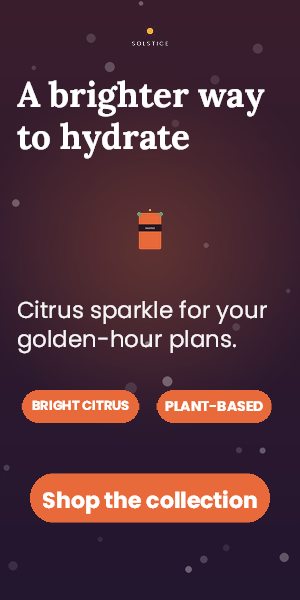
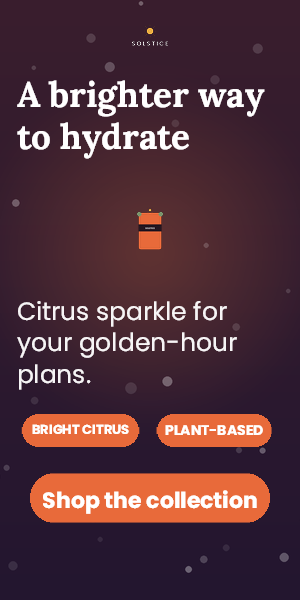
Size portrait copy bands from rendered text

Changed region(s): [[0.06, 0.48, 0.9, 0.75], [0.51, 0.63, 0.93, 0.75]]

diff --git a/engine/chameleon/planner.py b/engine/chameleon/planner.py
@@ -7,7 +7,7 @@ from math import cos, radians, sin
 from typing import Any
 
 from .model import DesignDNA, ElementFacts
-from .typography import fit_font_size
+from .typography import fit_font_size, measure_text
 
 
 def _clamp_rect(rect: tuple[float, float, float, float], canvas: dict[str, int]) -> tuple[float, float, float, float]:
@@ -533,10 +533,19 @@ def _layout(dna: DesignDNA, family: str, variant: int = 0) -> dict[str, Any]:
         copy_facts = sorted(subs + bodies, key=lambda f: (float(f.element.get("y", 0)), f.center[0]))
         if copy_facts:
             copy_start = ch * (0.49 if heroes else 0.31)
-            copy_band = min(ch * 0.18, max(ch * 0.08, ch * 0.14 * len(copy_facts))) / len(copy_facts)
-            for i, f in enumerate(copy_facts):
-                _apply_rect(dna, by_id, f.id, (mx, copy_start + i * copy_band, cw - 2 * mx, copy_band * 0.9), assigned)
-            badge_start = copy_start + len(copy_facts) * copy_band + ch * 0.02
+            copy_width = cw - 2 * mx
+            required = [
+                measure_text(f.element, copy_width, ch, fonts_dir="brand_kit/fonts").required_height * 1.3
+                for f in copy_facts
+            ]
+            total_copy_height = min(ch * 0.18, max(ch * 0.08, sum(required)))
+            total_required = max(1.0, sum(required))
+            cursor = copy_start
+            for f, needed_height in zip(copy_facts, required):
+                band_height = total_copy_height * needed_height / total_required
+                _apply_rect(dna, by_id, f.id, (mx, cursor, copy_width, band_height * 0.9), assigned)
+                cursor += band_height
+            badge_start = copy_start + total_copy_height + ch * 0.02
         else:
             badge_start = ch * (0.56 if heroes else 0.34)
         if badge_groups:

diff --git a/tests/test_engine.py b/tests/test_engine.py
@@ -140,6 +140,7 @@ class EngineContractTests(unittest.TestCase):
         hero = by_id["hero_product"]
         copy = by_id["supporting_copy"]
         self.assertLessEqual(float(hero["y"]) + float(hero["height"]), float(copy["y"]))
+        self.assertLessEqual(float(copy["height"]), 1920 * 0.09)
         self.assertLess(float(by_id["cta_background"]["y"]), 1920 * 0.84)
 
         badge = self._union_bounds([by_id["citrus_badge_background"], by_id["plant_badge_background"]])

diff --git a/docs/failure-taxonomy.md b/docs/failure-taxonomy.md
@@ -7,7 +7,7 @@ This is the current diagnostic snapshot from `evidence/benchmark/report.json`. T
 | Typography and hierarchy | Zero hierarchy regressions across all 64 stress cases and 45 mutations. The earlier 108 stress flags were inherited source ratios, not output regressions. | The scorer compares candidate hierarchy with the source. Action-word inference, proportion-preserving CTA groups, and short-landscape band spacing now keep primary actions above badge labels without clipping or new collisions. |
 | Text clipping and excessive shrinkage | No clipped text in the official outputs, stress cases, or mutations. The official Level 3 banner text sizes are: headline 15.09 px, subhead 8.45 px, and legal line 7.91 px. | Preserve every source string. Compact banner tests enforce headline, legal, badge, and CTA floors. Supporting copy is still small at 728×90 and remains a visual limitation. |
 | Banner reflow | The official 1600×400 and 728×90 tasks select a banner family. Their current renderer-backed outputs use distinct title, copy, action, and product areas. | Continue visual inspection; a legal banner can still be too dense. The advanced sample remains the weakest official composition. |
-| Vertical reflow and target underuse | The 1080×1080 → 1080×1350 warm-up uses a lower action band. The independent 1080×1920 sidecar now uses a shorter hero frame, earlier copy band, and earlier CTA floor; a regression test checks their ordering. | The render has tighter hero-to-copy and badge-to-action spacing, but still has a broad copy-to-badge interval. The 300×600 product remains small because its source asset has transparent margins. More source-backed portrait fixtures are needed before adjusting these bands further. |
+| Vertical reflow and target underuse | The 1080×1080 → 1080×1350 warm-up uses a lower action band. The independent 1080×1920 sidecar uses a shorter hero frame and renderer-measured wrapped-copy height with controlled spacing; a regression test checks its group ordering and band size. | The render has tighter hero-to-copy and copy-to-badge spacing, but open space remains between content groups. The 300×600 product remains small because its source asset has transparent margins. More source-backed portrait fixtures are needed before adjusting these bands further. |
 | Collision and grouping | Zero new or worsened collisions in the 64-case stress set and 45 mutations. Grouped elements are checked for intact membership and pair placement. | The metric does not clear or count overlaps already present in the synthetic source. Visual inspection of 45-element samples shows inherited clutter; use source-relative metrics with human review, not as an absolute legibility claim. |
 | Off-canvas geometry and image distortion | Zero off-canvas cases and zero image-ratio failures in both suites. Official output validation preserves IDs, counts, text, font families, and source image references. | Keep source bleed distinct from newly introduced overflow; do not regenerate or replace source assets. |
 | Rotation and alignment | Rotated decorations and alignment changes are present in the generated mutations; the current suite reports no clipping or collision regressions from them. | These are covered as synthetic cases, not as proof for arbitrary rotations or alignments. Inspect any new failure by its per-element diagnostics. |

diff --git a/docs/engineering-walkthrough.md b/docs/engineering-walkthrough.md
@@ -22,7 +22,7 @@ Depending on target aspect ratio, the planner emits 12 or 18 candidates from sou
 
 CTA and badge groups preserve their source proportions when the target has enough height, so rounded controls do not become vertically stretched. On taller formats their group scale is capped at 1.25× the source to avoid oversized color slabs when text size remains source-capped. Short banners use a wider CTA lane and a modestly taller label box inside the button; this grows the text area without pushing the button into the legal-copy row.
 
-Narrow story layouts use compact hero and copy bands followed by badges and actions. The hero frame ends before the supporting-copy band, and the CTA floor moves upward when the badge rows leave room. The bundled product image contains substantial transparent padding, so its visible product can still appear small even when the image frame uses its assigned space.
+Narrow story layouts use compact hero and copy bands followed by badges and actions. The hero frame ends before the supporting-copy band; the copy band is sized from renderer-compatible wrapped-text height with controlled extra room, and the CTA floor moves upward when the badge rows leave room. The bundled product image contains substantial transparent padding, so its visible product can still appear small even when the image frame uses its assigned space.
 
 The local proxy reports canvas legality, image fidelity, measured text fit, collisions, group cohesion, target adaptation, canvas use, sampled contrast, and source-relative hierarchy. It is a ranking aid, not Adobe's score. Existing hierarchy ratios are treated as source constraints; candidates are penalized when they materially worsen them. Overlap already present in the source is not called new unless the output worsens it; documented corner bleed is treated similarly when its normalized amount does not increase. New or worsened violations remain penalized. Candidate score, family, variant, validity, and issues are available in diagnostics. The recurring failure classes and latest residual cases are tracked in [failure taxonomy](failure-taxonomy.md).
 

diff --git a/evidence/curated/sidecar/visual-review.md b/evidence/curated/sidecar/visual-review.md
@@ -9,7 +9,7 @@ through each renderer-backed adaptation.
 | 1600×900 landscape | `banner` | Retains a clear copy column and product rail. The empty center is broad, but the hierarchy remains easy to scan. [Render](wide_landscape_output.png) |
 | 728×90 leaderboard | `banner` | Headline and supporting copy fit the narrow strip; the CTA remains distinct. Supporting copy is small at this size. [Render](leaderboard_output.png) |
 | 300×600 story | `stack` | The tighter bands keep headline, copy, badges, and action in a clear order. The product remains small because the original square asset has transparent margins. [Render](story_output.png) |
-| 1080×1920 vertical story | `stack` | The tighter bands bring the hero closer to the copy and move actions upward. CTA and badge fills keep source proportions and are capped at modest growth; a broad interval remains between copy and benefit badges. [Render](vertical_story_output.png) |
+| 1080×1920 vertical story | `stack` | The hero and one-line copy bands use measured renderer text height plus spacing, so the badge row starts sooner. CTA and badge fills keep source proportions and are capped at modest growth; open space remains between content groups. [Render](vertical_story_output.png) |
 | 300×250 medium rectangle | `banner` | Compact, legible hierarchy with all elements present. The product and logo are small but recognizable. [Render](medium_rectangle_output.png) |
 
 The evaluation script reports preserved IDs/counts, copy, font families, image

diff --git a/evidence/docker/validation.md b/evidence/docker/validation.md
@@ -1,6 +1,6 @@
 # Offline Docker validation
 
-Revalidated after the tall-format CTA/badge scale cap and portrait-band spacing adjustment on 2026-10-16 with Docker Desktop 4.77.0 and engine 29.5.3.
+Revalidated after the tall-format CTA/badge scale cap, portrait-band spacing, and renderer-measured copy-band adjustment on 2026-10-16 with Docker Desktop 4.77.0 and engine 29.5.3.
 
 Build for the challenge architecture:
 
@@ -21,9 +21,9 @@ docker run --rm --network none `
 
 Two consecutive runs completed with `OK`, and the repository validator reported zero issues for every output:
 
-- Level 1: 0.14–0.21 s; PNG 107,497 bytes
-- Level 2: 0.21–0.23 s; PNG 69,531 bytes
-- Level 3: 0.32–0.37 s; PNG 43,235 bytes
+- Level 1: 0.13–0.14 s; PNG 107,497 bytes
+- Level 2: 0.17 s both runs; PNG 69,531 bytes
+- Level 3: 0.24–0.25 s; PNG 43,235 bytes
 
 Two consecutive `--network none` runs produced byte-identical JSON and PNG
 outputs for all three official samples. PNG SHA-256 values: Level 1

diff --git a/evidence/benchmark/report.md b/evidence/benchmark/report.md
@@ -12,7 +12,7 @@ This score is an internal proxy, not Adobe's hidden evaluator.
 - Stress hierarchy regressions: 0 across 0 cases
 - No-new-collision rate (source-relative): 100.0%
 - Determinism rate: 100.0%
-- Stress runtime median / p95: 0.1461s / 1.0019s
+- Stress runtime median / p95: 0.3166s / 2.0288s
 
 - Mutation structural validity: 100.0%
 - Mutation off-canvas cases: 0
